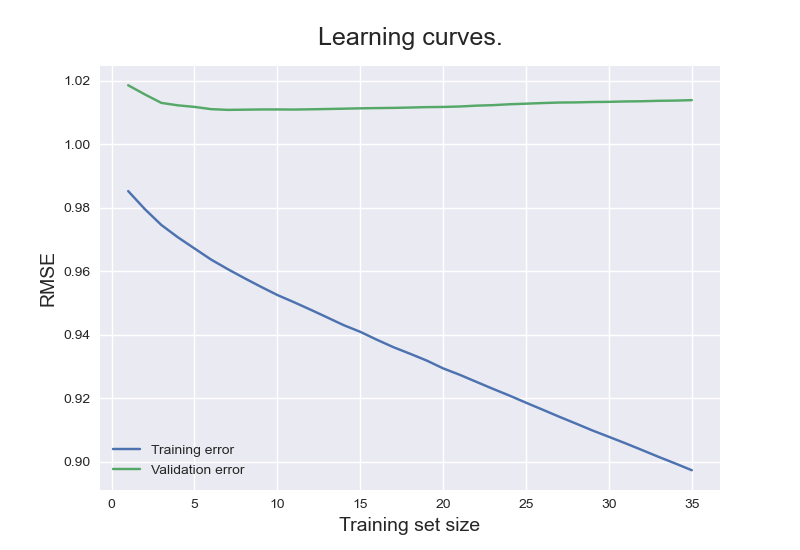
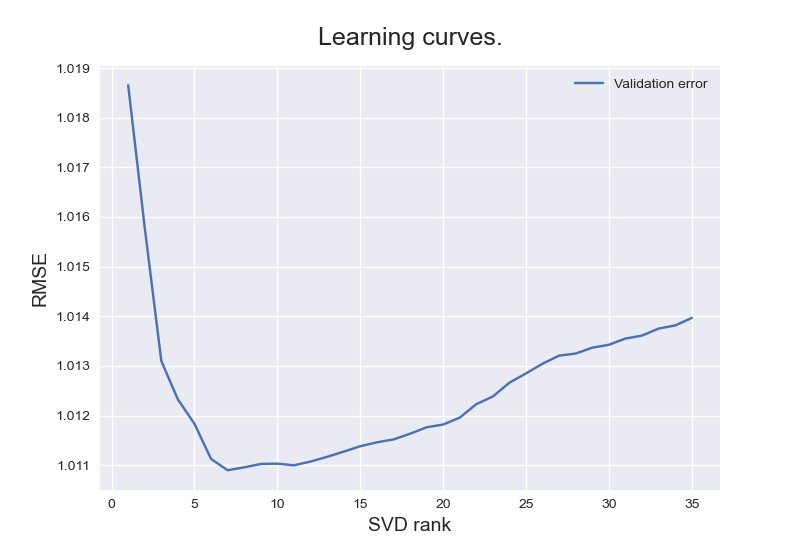
Fixed bug in plot generation

diff --git a/plots/generate_plots.py b/plots/generate_plots.py
@@ -19,12 +19,11 @@ def main():
      train = sorted(train, key=lambda x: x[0])
      val = sorted(val, key=lambda x: x[0])
 
-     print([t[0] for t in train], [t[1] for t in train])
      plt.style.use('seaborn')
-     plt.plot([t[0] for t in train], [t[1] for t in train], label = 'Training error')
+     #plt.plot([t[0] for t in train], [t[1] for t in train], label = 'Training error')
      plt.plot([t[0] for t in val], [t[1] for t in val], label = 'Validation error')
      plt.ylabel('RMSE', fontsize = 14)
-     plt.xlabel('Training set size', fontsize = 14)
+     plt.xlabel('SVD rank', fontsize = 14)
      plt.title('Learning curves.', fontsize = 18, y = 1.03)
      plt.legend()
      plt.savefig("./plots/SVD.png")
